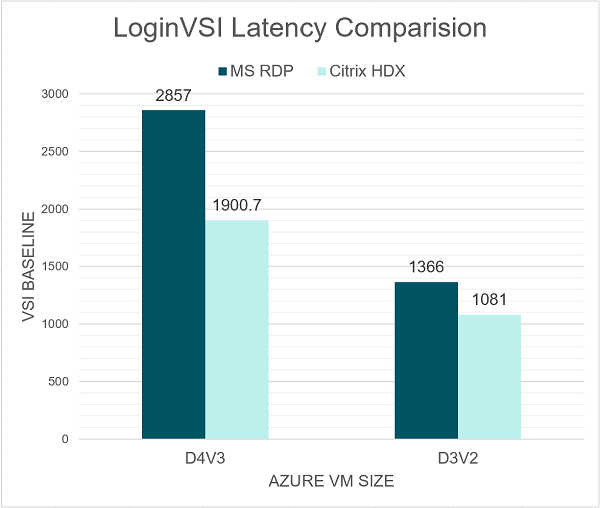
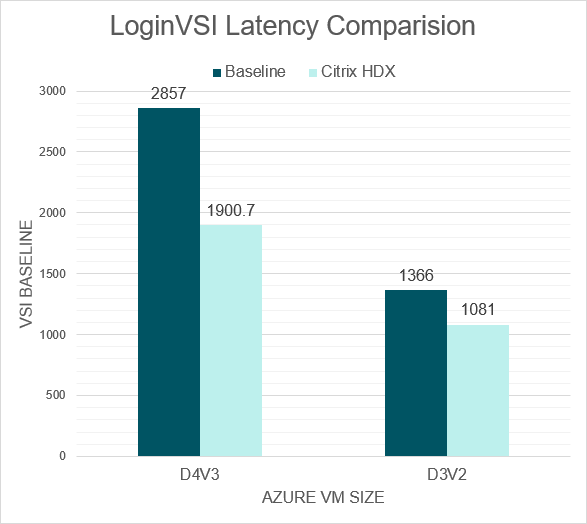
Changed wording and graphs to be less competitive

diff --git a/en-us/tech-zone/learn/tech-briefs/workspace-environment-mgmt.md b/en-us/tech-zone/learn/tech-briefs/workspace-environment-mgmt.md
@@ -83,7 +83,7 @@ CPU optimization with WEM, involves real-time monitoring of the process running 
 
 Watch the Tech Insight video about CPU Optimization [here](/en-us/tech-zone/learn/tech-insights/workspace-environment-mgmt.html#cpu-optimization).
 
-To validate the effect of CPU optimization by WEM, in a noisy neighbor scenario, these scale tests were extended. To simulate a noisy neighbor, a user not part of the LoginVSI knowledge worker test run, is added to the test setup. This user’s session is configured, to launch a process that consumes 3 CPU cores for an average of 50%-70% of total CPU, based on the number of cores in the Azure VM.
+To validate the effect of CPU optimization by WEM, in a noisy neighbor scenario, Login VSI based scale tests were conducted. To simulate a noisy neighbor, a user not part of the LoginVSI knowledge worker test run, is added to the test setup. This user’s session is configured, to launch a process that consumes 3 CPU cores for an average of 50%-70% of total CPU, based on the number of cores in the Azure VM.
 
 Windows 10 2004 multi-session VMs, were tested with CVAD 2006 installed and the Citrix Optimizer applied and WEM agent over HDX. To baseline the test results, the same test was run with Microsoft RDP as the connection protocol and the VMs had Out of the Box optimizations from Microsoft.
 
@@ -91,13 +91,13 @@ As can be seen from the following table, the inclusion of WEM, suppresses the ef
 
 **Scale breakdown with Noisy Neighbor scenario**:
 
-| Azure Size  |  MS RDP | Citrix HDX  | % WEM Scalability Improvement  |
+| Azure Size  |  Baseline | Citrix HDX  | % WEM Scalability Improvement  |
 |---|---|---|---|
 | D4V3  | 7.3  | 11.3  | **43.0%**  |
 | D3V2  | 12  | 16  | **28.6%**  |
 | D4V2  | 28  | 34.5  | **20.8%**  |
 
-As WEM reduces CPU spikes, another important inference from the results is, that the response time for the user is much better. Citrix Virtual Apps and Desktops sessions have an almost 1000 ms lower response time when compared to MS RDP (at the instant VSImax is reached) for the same number of users.
+As WEM reduces CPU spikes, another important inference from the results is, that the response time for the user is much better. Citrix Virtual Apps and Desktops sessions have an almost 1000 ms lower response time when compared to the baseline (at the instant VSImax is reached) for the same number of users.
 
 Similarly, the latency observed in the session is between 25%-50% lesser on both the machines with 4 vCPUs. Both these results point to a much smoother and snappier user experience when WEM is in the picture.
 

diff --git a/en-us/tech-zone/learn/tech-briefs/windows-virtual-desktop-value-add.md b/en-us/tech-zone/learn/tech-briefs/windows-virtual-desktop-value-add.md
@@ -365,13 +365,13 @@ As can be seen from the following table, the inclusion of WEM, suppresses the ef
 
 **Scale breakdown with Noisy Neighbor scenario**:
 
-| Azure Size  |  MS RDP | Citrix HDX  | % WEM Scalability Improvement  |
+| Azure Size  |  Baseline | Citrix HDX  | % WEM Scalability Improvement  |
 |---|---|---|---|
 | D4V3  | 7.3  | 11.3  | **43.0%**  |
 | D3V2  | 12  | 16  | **28.6%**  |
 | D4V2  | 28  | 34.5  | **20.8%**  |
 
-As WEM reduces CPU spikes, another important inference from the results is, that the response time for the user is much better. Citrix Virtual Apps and Desktops sessions have an almost 1000 ms lower response time when compared to MS RDP (at the instant VSImax is reached) for the same number of users.
+As WEM reduces CPU spikes, another important inference from the results is, that the response time for the user is much better. Citrix Virtual Apps and Desktops sessions have an almost 1000 ms lower response time when compared to the baseline (at the instant VSImax is reached) for the same number of users.
 
 Similarly, the latency observed in the session is between 25%-50% lesser on both the machines with 4 vCPUs. Both these results point to a much smoother and snappier user experience when WEM is in the picture.
 
